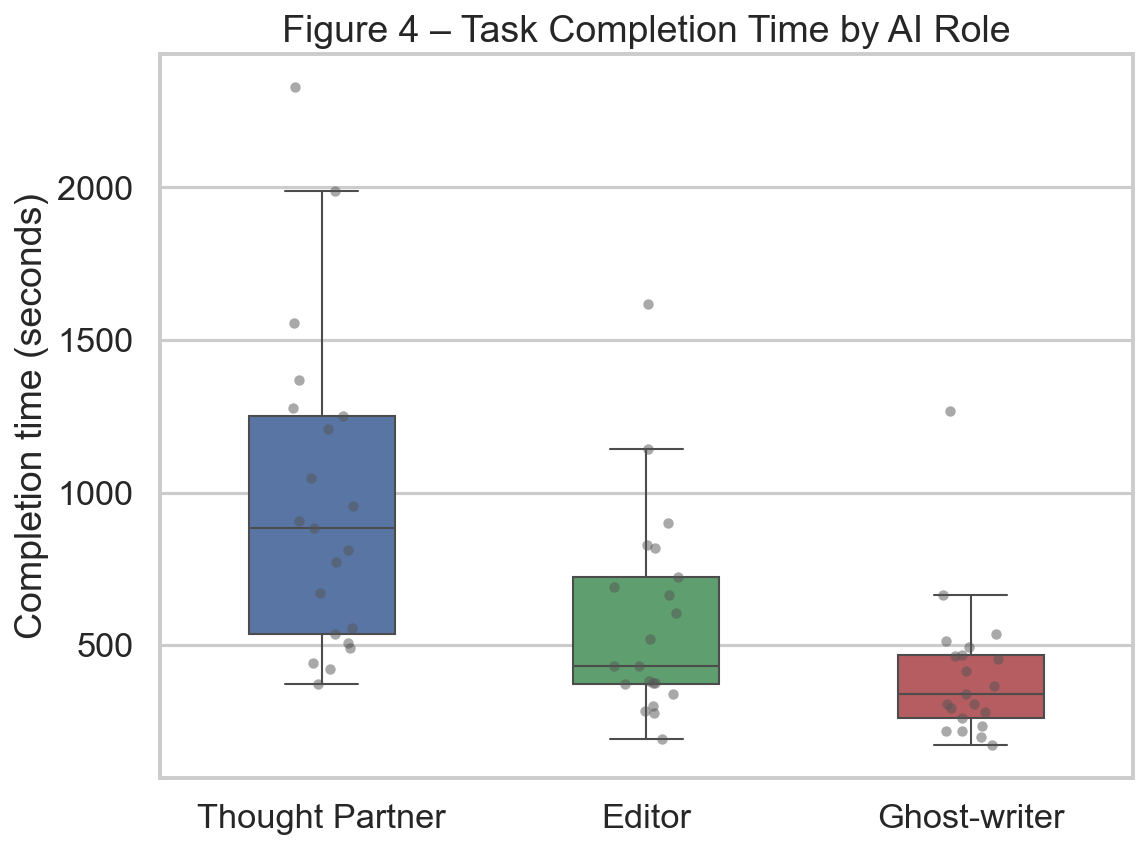
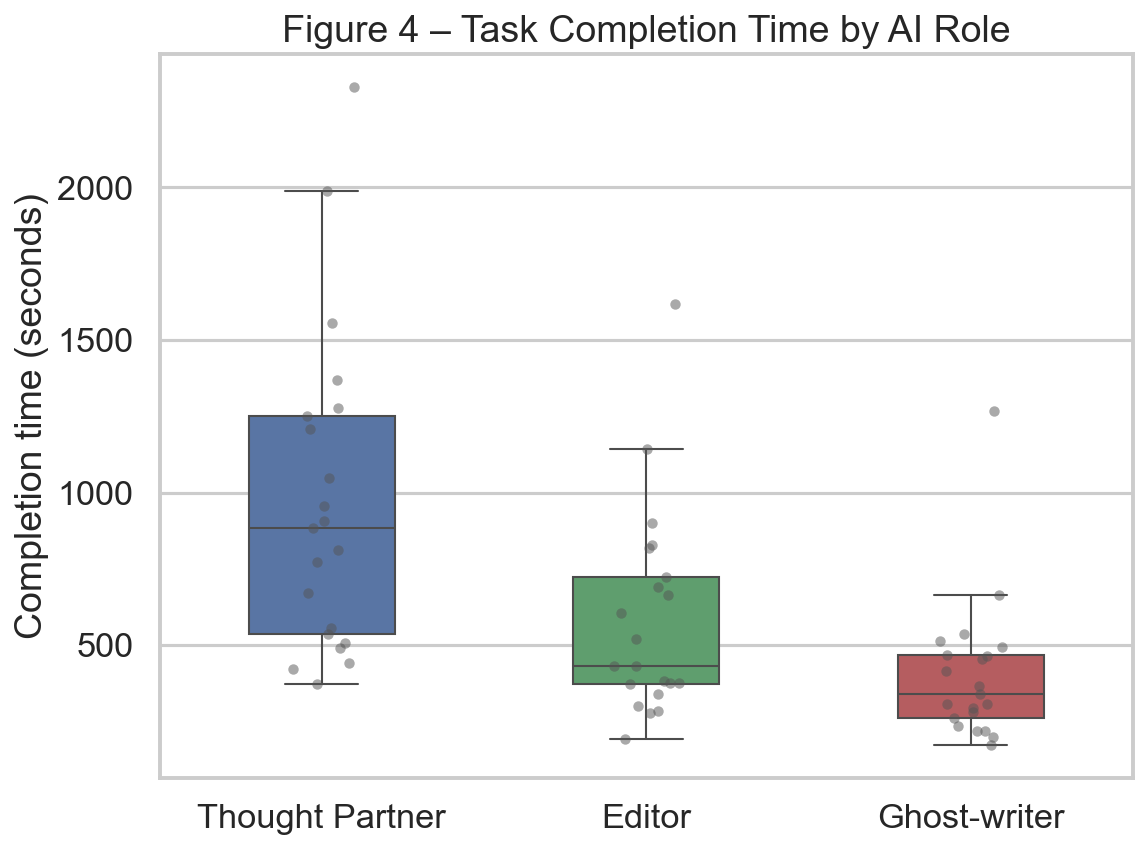
global

diff --git a/result_analysis/README.md b/result_analysis/README.md
@@ -84,6 +84,13 @@ Multiple-comparison note:
 - `Bonferroni` is also valid here and has now been added to `paper_analysis.ipynb` for future reruns
 - The currently exported CSVs in `results_tables/` were generated before that update, so they may not yet include `p_bonferroni`
 
+Global correction note:
+- The notebook now also includes a conservative sensitivity table that corrects across all 12 main-outcome pairwise contrasts at once
+- That table uses 4 outcomes x 3 condition pairs: authenticity, effort, willingness to send, and log completion time
+- After rerunning the notebook, it will export to `results_tables/main_outcome_pairwise_global_correction.csv`
+- This global correction is more conservative than correcting within each RQ/outcome family
+- It is useful as a robustness check, but it is not automatically required if the paper treats each RQ/outcome as a separate planned hypothesis family
+
 ## Main Reliability Results
 
 From `results_tables/reliability.csv`:
